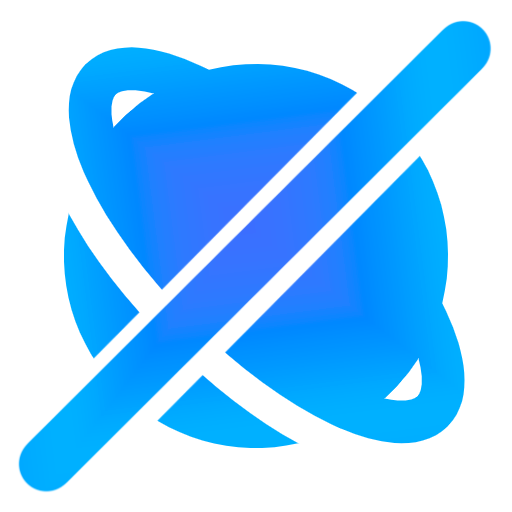
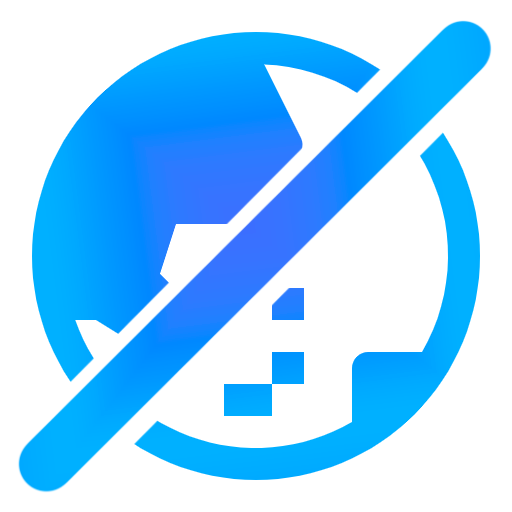
added sounds and tooltips

Changed region(s): [[0.25, 0.25, 0.9375, 0.9375], [0.0625, 0.0625, 0.75, 0.75]]

diff --git a/ui/mods/mod.roulette/floatzone/strat.js b/ui/mods/mod.roulette/floatzone/strat.js
@@ -15,6 +15,7 @@ function stratModel() {
     self.memeDifficulty = ko.observable(1)
     self.hardModifierDifficulty = ko.observable(1)
 
+    self.land = ko.observable(true)
     self.naval = ko.observable(false)
     self.hybrid = ko.observable(false)
     self.orbital = ko.observable(false)
@@ -111,8 +112,56 @@ model.toggleSwitch = function () {
 
     console.log(status);
 }
+
+/**
+ * Checks if any of the planet options in the `stratModel` are enabled, and returns `false` if only one is enabled, and `true` otherwise.
+ *
+ * @return {boolean} `false` if only one planet option is enabled, `true` otherwise.
+ */
+function can_disable_planet_option() {
+    var counter = 0;
+    if (stratModel.land() == true) {
+        counter++;
+    }
+    if (stratModel.naval() == true) {
+        counter++;
+    }
+    if (stratModel.orbital() == true) {
+        counter++;
+    }
+    if (counter == 1) {
+        return false;
+    }
+
+    return true;
+}
+
+model.toggleLand = function () {
+    var value = stratModel.land();
+    if(value == true){
+        if(can_disable_planet_option() == false){
+            return;
+        }
+    }
+
+    stratModel.land(!value)
+    console.log(stratModel.land())
+    if (stratModel.land() == true) {
+        $("#land-button-img").attr("src", "coui://ui/mods/mod.roulette/img/land.png");
+    } else {
+        $("#land-button-img").attr("src", "coui://ui/mods/mod.roulette/img/land-no.png");
+    }
+}
+
 model.toggleNaval = function () {
-    stratModel.naval(!stratModel.naval())
+    var value = stratModel.naval();
+    if(value == true){
+        if(can_disable_planet_option() == false){
+            return;
+        }
+    }
+
+    stratModel.naval(!value)
     console.log(stratModel.naval())
     if (stratModel.naval() == true) {
         $("#naval-button-img").attr("src", "coui://ui/mods/mod.roulette/img/ship.png");
@@ -122,7 +171,14 @@ model.toggleNaval = function () {
 }
 
 model.toggleOrbital = function () {
-    stratModel.orbital(!stratModel.orbital())
+    var value = stratModel.orbital();
+    if(value == true){
+        if(can_disable_planet_option() == false){
+            return;
+        }
+    }
+
+    stratModel.orbital(!value)
     console.log(stratModel.orbital())
     if (stratModel.orbital() == true) {
         $("#orbital-button-img").attr("src", "coui://ui/mods/mod.roulette/img/planet.png");
@@ -326,21 +382,20 @@ function get_random_array_value(array) {
  */
 function get_random_value_by_weight(array) {
     if (array.length == 0) { return undefined }
-    
+
     // multiply random value between 0..1 by sum of all weights
-    var weight_pointer = Math.random() * _.reduce(array, function (acc, obj) 
-    { 
-        if(obj.weight == undefined) { return acc+1 }
+    var weight_pointer = Math.random() * _.reduce(array, function (acc, obj) {
+        if (obj.weight == undefined) { return acc + 1 }
         return acc + obj.weight
     }, 0);
     // var weight_pointer = Math.random();
 
-    console.log("weight_pointer: "+weight_pointer)
+    // console.log("weight_pointer: " + weight_pointer)
 
     var weight_pointer_treshold = 0
     for (var i = 0; i < array.length; i++) {
         weight_pointer_treshold += (array[i].weight || 1)
-        console.log("weight_pointer_treshold: "+weight_pointer_treshold)
+        console.log("weight_pointer_treshold: " + weight_pointer_treshold)
         if (weight_pointer < weight_pointer_treshold) {
             return {
                 value: array[i],
@@ -657,28 +712,28 @@ function get_new_strategy() {
     //     factories: ["naval", "naval","air","naval"],
     //     types: ["naval", "air"],
     //}
-    const earlygame_factories_order_lengths =[
+    const earlygame_factories_order_lengths = [
         {
-            value:2,
-            weight:2.33
+            value: 2,
+            weight: 2.33
         },
         {
-            value:3,
-            weight:6.10
+            value: 3,
+            weight: 6.10
         },
         {
-            value:4,
-            weight:1.44
+            value: 4,
+            weight: 1.44
         },
         {
-            value:5,
-            weight:0.34
+            value: 5,
+            weight: 0.34
         }
     ]
 
     var earlygame_factories_order_length = get_random_value_by_weight(earlygame_factories_order_lengths).value.value
     var earlygame_factories_order = get_factories_order(planet_conditions, 1,
-        earlygame_factories_order_length
+        earlygame_factories_order_length, true
     )
     var midgame_factories_order = get_factories_order(planet_conditions, 2,
         2, false
@@ -714,8 +769,8 @@ function get_new_strategy() {
     // MIDGAME
     var midgame_tasks = get_multiple_random_array_values_by_weight(
         _.filter(items_copy, function does_item_match_conditions_midgame(x) {
-            return does_item_match_conditions(planet_conditions, ["midgame"], 
-                midgame_factories_order.types, 
+            return does_item_match_conditions(planet_conditions, ["midgame"],
+                midgame_factories_order.types,
                 x);
         }),
         midgame_tasks_count)
@@ -757,18 +812,20 @@ function get_new_strategy() {
  * @return {Array} An array of strings representing the planet conditions. The array contains "orbital" if the selected model is orbital, "naval" if the selected model is naval, and "land" if the selected model is not naval.
  */
 function get_selected_planet_conditions() {
-    var condtions = []
+    var conditions = []
     if (stratModel.orbital() == true) {
-        condtions.push("orbital")
+        conditions.push("orbital")
     }
 
     if (stratModel.naval() == true) {
-        condtions.push("naval")
-    } else {
-        condtions.push("land")
+        conditions.push("naval")
+    }
+    
+    if(stratModel.land() == true) {
+        conditions.push("land")
     }
 
-    return condtions
+    return conditions
 }
 
 /**
@@ -783,7 +840,7 @@ function get_selected_planet_conditions() {
  * console.log(order)
  * // { factories: ["vehicle", "bot", "bot", "vehicle"], types: ["vehicle", "bot"] }
  */
-function get_factories_order(planet_conditions, tier, order_length, allow_same = true) {
+function get_factories_order(planet_conditions, tier, order_length, allow_same) {
     var factories_copy = catalog.factories.slice()
 
     // FILTER FACTORIES
@@ -799,7 +856,7 @@ function get_factories_order(planet_conditions, tier, order_length, allow_same =
         air_factory_check++;
         console.log("land not selected")
         factories_copy = _.filter(factories_copy, function (x) {
-            console.log(x.type+" keep " +(x.type != "bot" && x.type != "vehicle"))
+            console.log(x.type + " keep " + (x.type != "bot" && x.type != "vehicle"))
             return x.type != "bot" && x.type != "vehicle";
         });
     }
@@ -833,16 +890,26 @@ function get_factories_order(planet_conditions, tier, order_length, allow_same =
     }
 
     for (var i = 0; i < order_length; i++) {
+        if(factories_copy.length == 0) {
+            console.log("no factories left")
+            debug(planet_conditions, "planet conditions")
+            debug(tier, "tier")
+            debug(factory_order, "factory order")
+            break;
+        }
+
         var random_index = get_random_value_inclusive(0, factories_copy.length - 1)
         var factory = factories_copy[random_index]
 
         // push new factory in order
         factory_order.factories.push(factory)
 
+        debug(factory, "factory")
+
         // push new type in order if it doesn't exist
         if (!_.includes(factory_order.types, factory.type)) {
             factory_order.types.push(factory.type)
-            if(!allow_same){
+            if (!allow_same) {
                 // exlude same type
                 factories_copy = _.filter(factories_copy, function (x) {
                     return x.type != factory.type;
@@ -1017,8 +1084,8 @@ function resolve_conflicting_items(items_arrays) {
     }
 }
 
-function debug(object){
-    console.log(JSON.stringify(object,null,2))
+function debug(object, message) {
+    console.log(JSON.stringify(object, null, 2) +" : " + ((message == null)?"":message))
 }
 
 

diff --git a/ui/mods/mod.roulette/floatzone/strat.html b/ui/mods/mod.roulette/floatzone/strat.html
@@ -17,33 +17,57 @@
 
         <!-- BUTTONS -->
         <div id="buttons" class="buttons">
-            <!-- draggable area -->
-            <div class="pseudo-button">
-                <img class="mini" src='coui://ui/mods/mod.roulette/img/drag.png' />
+            <div id="buttons-primary" class="buttons primary">
+                <div class="pseudo-button" data-bind="tooltip: '!LOC:Drag to move frame', 
+                click_sound: 'default',
+                rollover_sound: 'default'" data-placement="right">
+                    <img class="mini" src='coui://ui/mods/mod.roulette/img/drag.png' />
+                </div>
+
+                <button class="quad common btn-default" id="generateStrat" onclick="model.stratLockEvent()"
+                    data-bind="tooltip: '!LOC:Lock/Unlock frame position', click_sound: 'default', rollover_sound: 'default'"
+                    data-placement="right">
+                    <img id='strat_lock' src='' class='mini' />
+                </button>
+                <button class="quad common btn-default" id="generateStrat" onclick="model.toggleStratUIExpanded()"
+                    data-bind="tooltip: '!LOC:Hide/Show frame', 
+            click_sound: 'default',
+            rollover_sound: 'default'" data-placement="right">
+                    <img id='strat_visible' src='' class='mini' />
+                </button>
             </div>
-            <button class="quad common btn-default" id="generateStrat" onclick="model.stratLockEvent()">
-                <img id='strat_lock' src='' class='mini' />
-            </button>
-            <button class="quad common btn-default" id="generateStrat" onclick="model.toggleStratUIExpanded()">
-                <img id='strat_visible' src='' class='mini' />
-            </button>
+
 
             <div id="buttons-secondary" class="buttons secondary" data-bind="visible: stratUIExpanded">
                 <hr class="invisible" />
-                <button class="tall common btn-default" id="generateStrat" onclick='model.processGenerateClick()'>
+                <button class="tall common btn-default" id="generateStrat" onclick="model.processGenerateClick()"
+                    data-bind="tooltip: '!LOC:Make new strategy', 
+                    click_sound: 'default',
+                    rollover_sound: 'default'" data-placement="right">
                     <img class="mini" src='coui://ui/mods/mod.roulette/img/dice.png' />
                 </button>
 
                 <hr class="invisible" />
-                <button class="quad common btn-default" onclick="model.toggleNaval()">
+                <button class="quad common btn-default" onclick="model.toggleLand()" data-bind="tooltip: '!LOC:Add land factories to strategy', 
+                    click_sound: 'default',
+                    rollover_sound: 'default'" data-placement="right">
+                    <img id="land-button-img" class="mini" src='coui://ui/mods/mod.roulette/img/land.png' />
+                </button>
+                <button class="quad common btn-default" onclick="model.toggleNaval()" data-bind="tooltip: '!LOC:Add naval factories to strategy', 
+                    click_sound: 'default',
+                    rollover_sound: 'default'" data-placement="right">
                     <img id="naval-button-img" class="mini" src='coui://ui/mods/mod.roulette/img/ship-no.png' />
                 </button>
-                <button class="quad common btn-default" onclick="model.toggleOrbital()">
+                <button class="quad common btn-default" onclick="model.toggleOrbital()" data-bind="tooltip: '!LOC:Add orbital factories to strategy', 
+                    click_sound: 'default',
+                    rollover_sound: 'default'" data-placement="right">
                     <img id="orbital-button-img" class="mini" src='coui://ui/mods/mod.roulette/img/planet-no.png' />
                 </button>
 
                 <hr class="invisible" />
-                <button class="quad common btn-default" onclick="model.toggleSwitch()">
+                <button class="quad common btn-default" onclick="model.toggleSwitch()" data-bind="tooltip: '!LOC:Switch frame orientation', 
+                    click_sound: 'default',
+                    rollover_sound: 'default'" data-placement="right">
                     <img class="mini" src='coui://ui/mods/mod.roulette/img/switch.png' />
                 </button>
             </div>
@@ -171,6 +195,7 @@
 
     ko.cleanNode(document.getElementById("content-viewport"));
     ko.applyBindings(stratModel, document.getElementById("content-viewport"));
+    ko.applyBindings(stratModel, document.getElementById("buttons-primary"));
     ko.applyBindings(stratModel, document.getElementById("buttons-secondary"));
 
     if (localStorage["frames_strat_frame_lockStatus"] == "true") {

diff --git a/ui/mods/mod.roulette/floatzone/strat.css b/ui/mods/mod.roulette/floatzone/strat.css
@@ -171,7 +171,7 @@ hr.invisible {
     padding-top: 0px;
     font-size: 200%;
     /* background: linear-gradient(135deg, rgba(53, 53, 53, 0.38) 0%, rgba(255, 255, 255, 0) 100%) !important; */
-    display: inline-flex;
+    display: flex;
     flex-direction: row;
 }
 
@@ -197,6 +197,12 @@ hr.invisible {
     background-color: rgba(37, 37, 37, 1);
 }
 
+.buttons.primary {
+    display: table;
+    width: 30px;
+    background-color: rgba(37, 37, 37, 1);
+    
+}
 .buttons.secondary {
     display: table;
     width: 30px;
